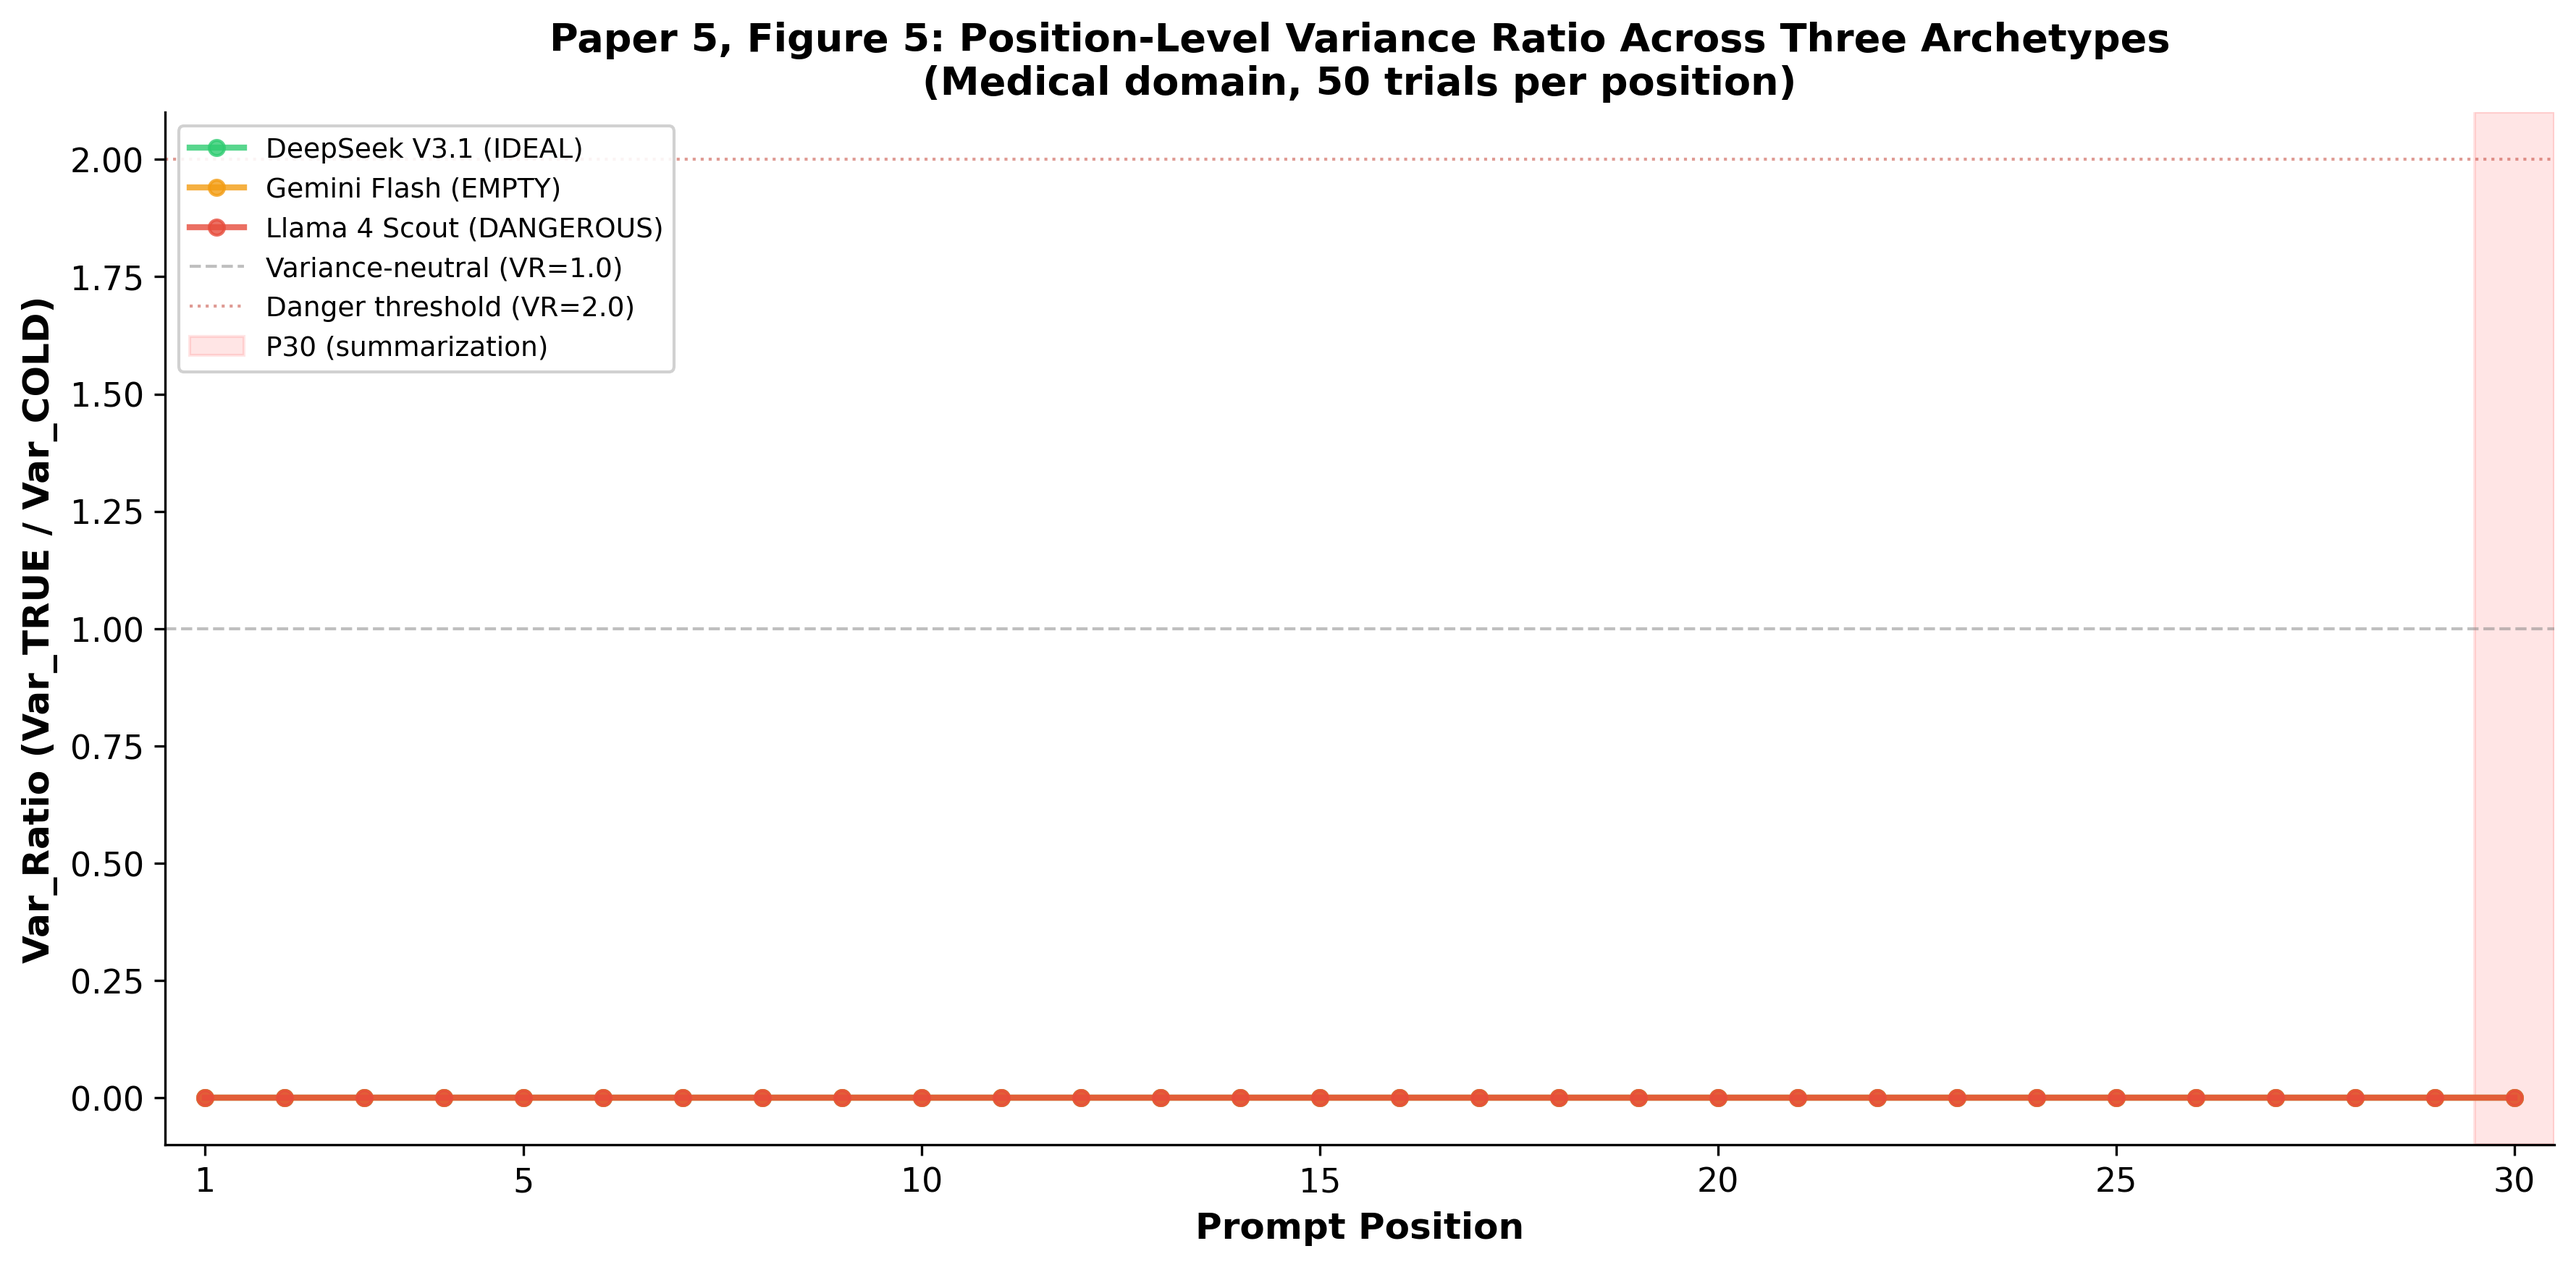
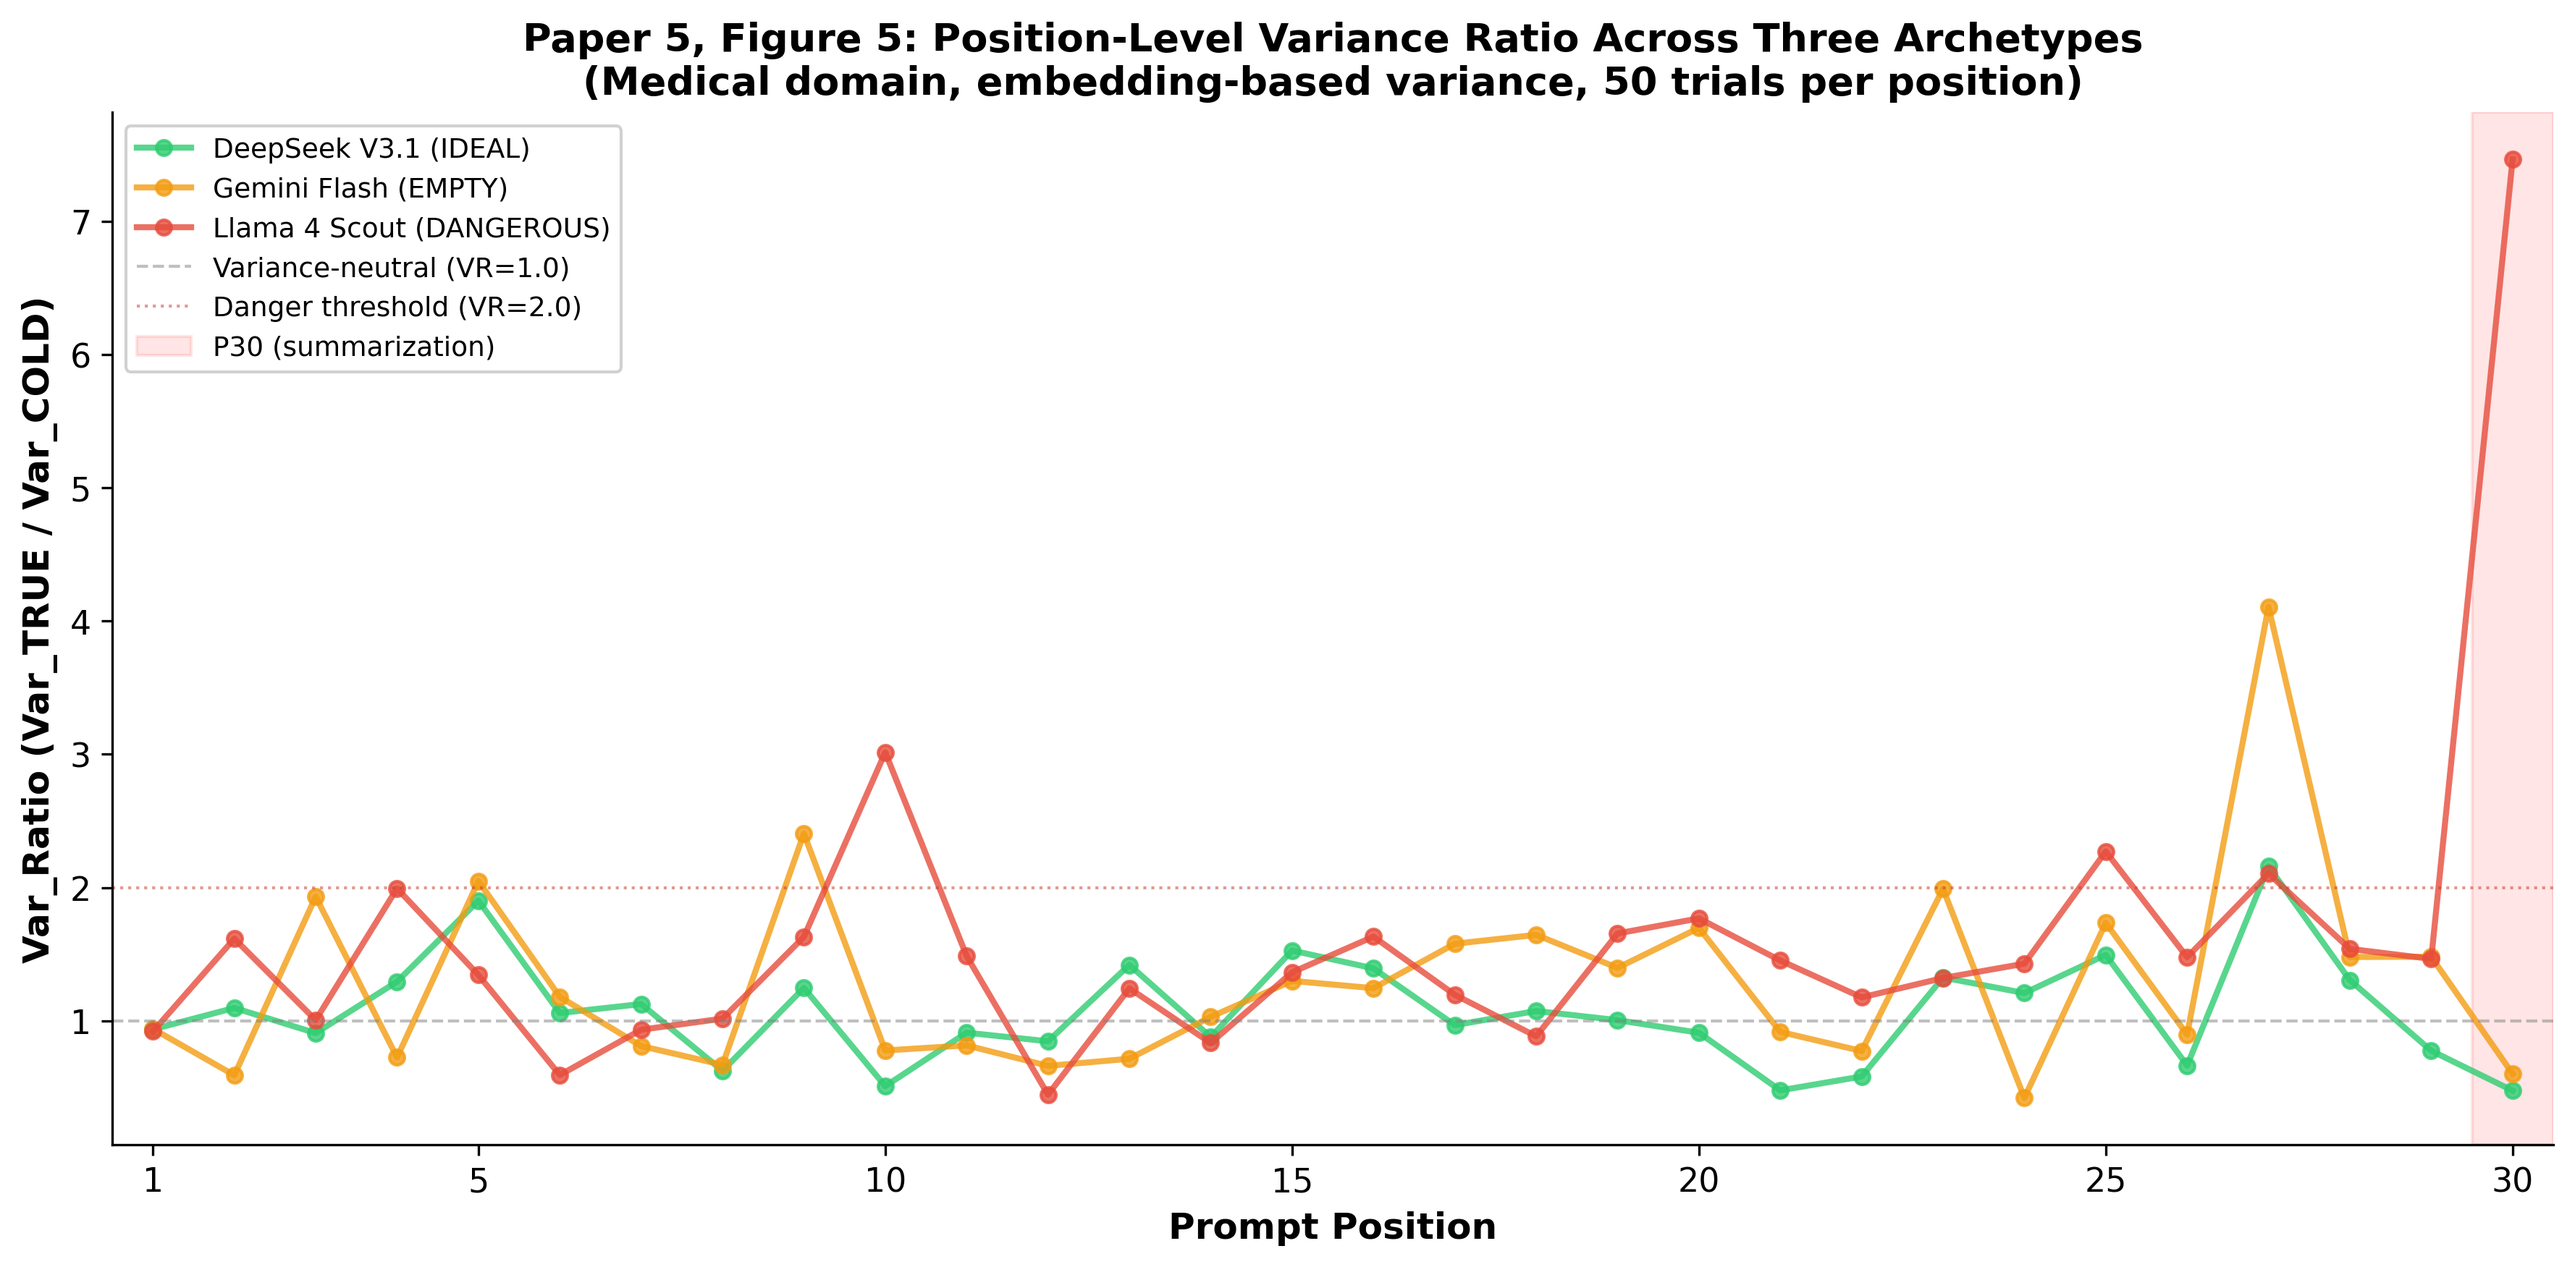
Fix Figure 5: use embedding-based Var_Ratio from Paper 4 CSV
Alignment scores have true=1.0 (Paper 2 method), giving Var(true)=0.
Now uses pre-computed embedding variances from Paper 4 analysis.
Llama Scout P30 spike to 7.46 now visible.

diff --git a/scripts/generate_paper5_figures.py b/scripts/generate_paper5_figures.py
@@ -368,36 +368,27 @@ def fig4_one_dimension_failure():
 # FIGURE 5: Var_Ratio Across All Positions (3 Archetypes)
 # ============================================================
 def fig5_position_var_ratio():
-    """Position-level Var_Ratio for 3 archetype models across P1-P30."""
+    """Position-level Var_Ratio for 3 archetype models across P1-P30.
+    Uses Paper 4 pre-computed embedding-based Var_Ratio (not alignment scores,
+    which are always 1.0 for TRUE in Paper 2's response-response method)."""
+    import pandas as pd
     fig, ax = plt.subplots(figsize=(12, 6))
 
-    archetype_files = {
-        "DeepSeek V3.1 (IDEAL)": ("data/medical/open_models/mch_results_deepseek_v3_1_medical_50trials.json", "#2ecc71"),
-        "Gemini Flash (EMPTY)": ("data/medical/gemini_flash/mch_results_gemini_flash_medical_50trials.json", "#f39c12"),
-        "Llama 4 Scout (DANGEROUS)": ("data/medical/open_models/mch_results_llama_4_scout_medical_50trials.json", "#e74c3c"),
+    csv_path = BASE / "docs/figure_data/paper4_fig_independence_var_ratio.csv"
+    df = pd.read_csv(csv_path)
+    med = df[df['domain'] == 'Medical']
+
+    archetypes = {
+        "DeepSeek V3.1 (IDEAL)":     ("DeepSeek V3.1 (Med)", "#2ecc71"),
+        "Gemini Flash (EMPTY)":       ("Gemini Flash (Med)",  "#f39c12"),
+        "Llama 4 Scout (DANGEROUS)":  ("Llama 4 Scout (Med)", "#e74c3c"),
     }
 
-    for label, (fpath, color) in archetype_files.items():
-        full_path = BASE / fpath
-        with open(full_path) as f:
-            mdata = json.load(f)
-
-        n_pos = 30
-        var_ratios_pos = []
-        for pos in range(n_pos):
-            true_vals = []
-            cold_vals = []
-            for t in mdata['trials']:
-                if isinstance(t['alignments']['true'], list):
-                    true_vals.append(t['alignments']['true'][pos])
-                    cold_vals.append(t['alignments']['cold'][pos])
-            var_t = np.var(true_vals) if true_vals else 0
-            var_c = np.var(cold_vals) if cold_vals else 1
-            vr = var_t / var_c if var_c > 1e-10 else 0
-            var_ratios_pos.append(vr)
-
-        positions = np.arange(1, 31)
-        ax.plot(positions, var_ratios_pos, 'o-', color=color, linewidth=2,
+    for label, (csv_name, color) in archetypes.items():
+        mdf = med[med['model'] == csv_name].sort_values('position')
+        positions = mdf['position'].values
+        vr = mdf['var_ratio'].values
+        ax.plot(positions, vr, 'o-', color=color, linewidth=2,
                markersize=5, label=label, alpha=0.8)
 
     ax.axhline(y=1.0, color='gray', linestyle='--', linewidth=1, alpha=0.5,
@@ -410,7 +401,7 @@ def fig5_position_var_ratio():
 
     ax.set_xlabel("Prompt Position", fontsize=12, fontweight='bold')
     ax.set_ylabel("Var_Ratio (Var_TRUE / Var_COLD)", fontsize=12, fontweight='bold')
-    ax.set_title("Paper 5, Figure 5: Position-Level Variance Ratio Across Three Archetypes\n(Medical domain, 50 trials per position)",
+    ax.set_title("Paper 5, Figure 5: Position-Level Variance Ratio Across Three Archetypes\n(Medical domain, embedding-based variance, 50 trials per position)",
                 fontsize=13, fontweight='bold')
     ax.legend(loc='upper left', fontsize=9, framealpha=0.9)
     ax.set_xlim(0.5, 30.5)
